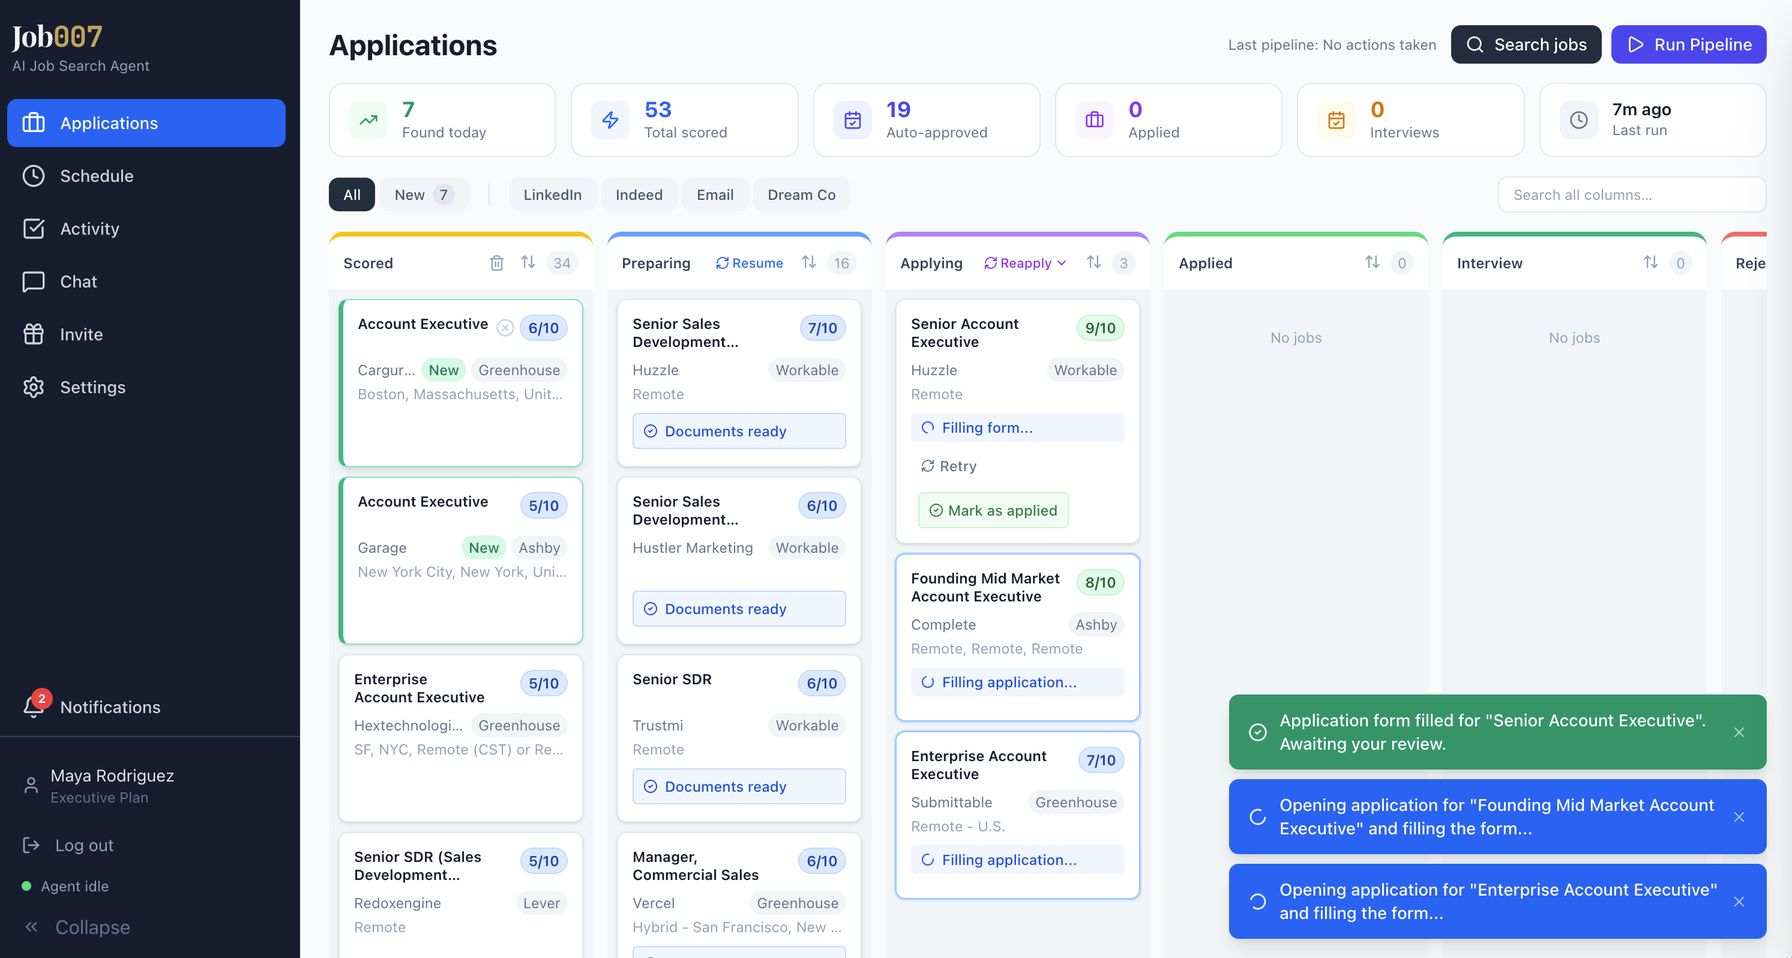
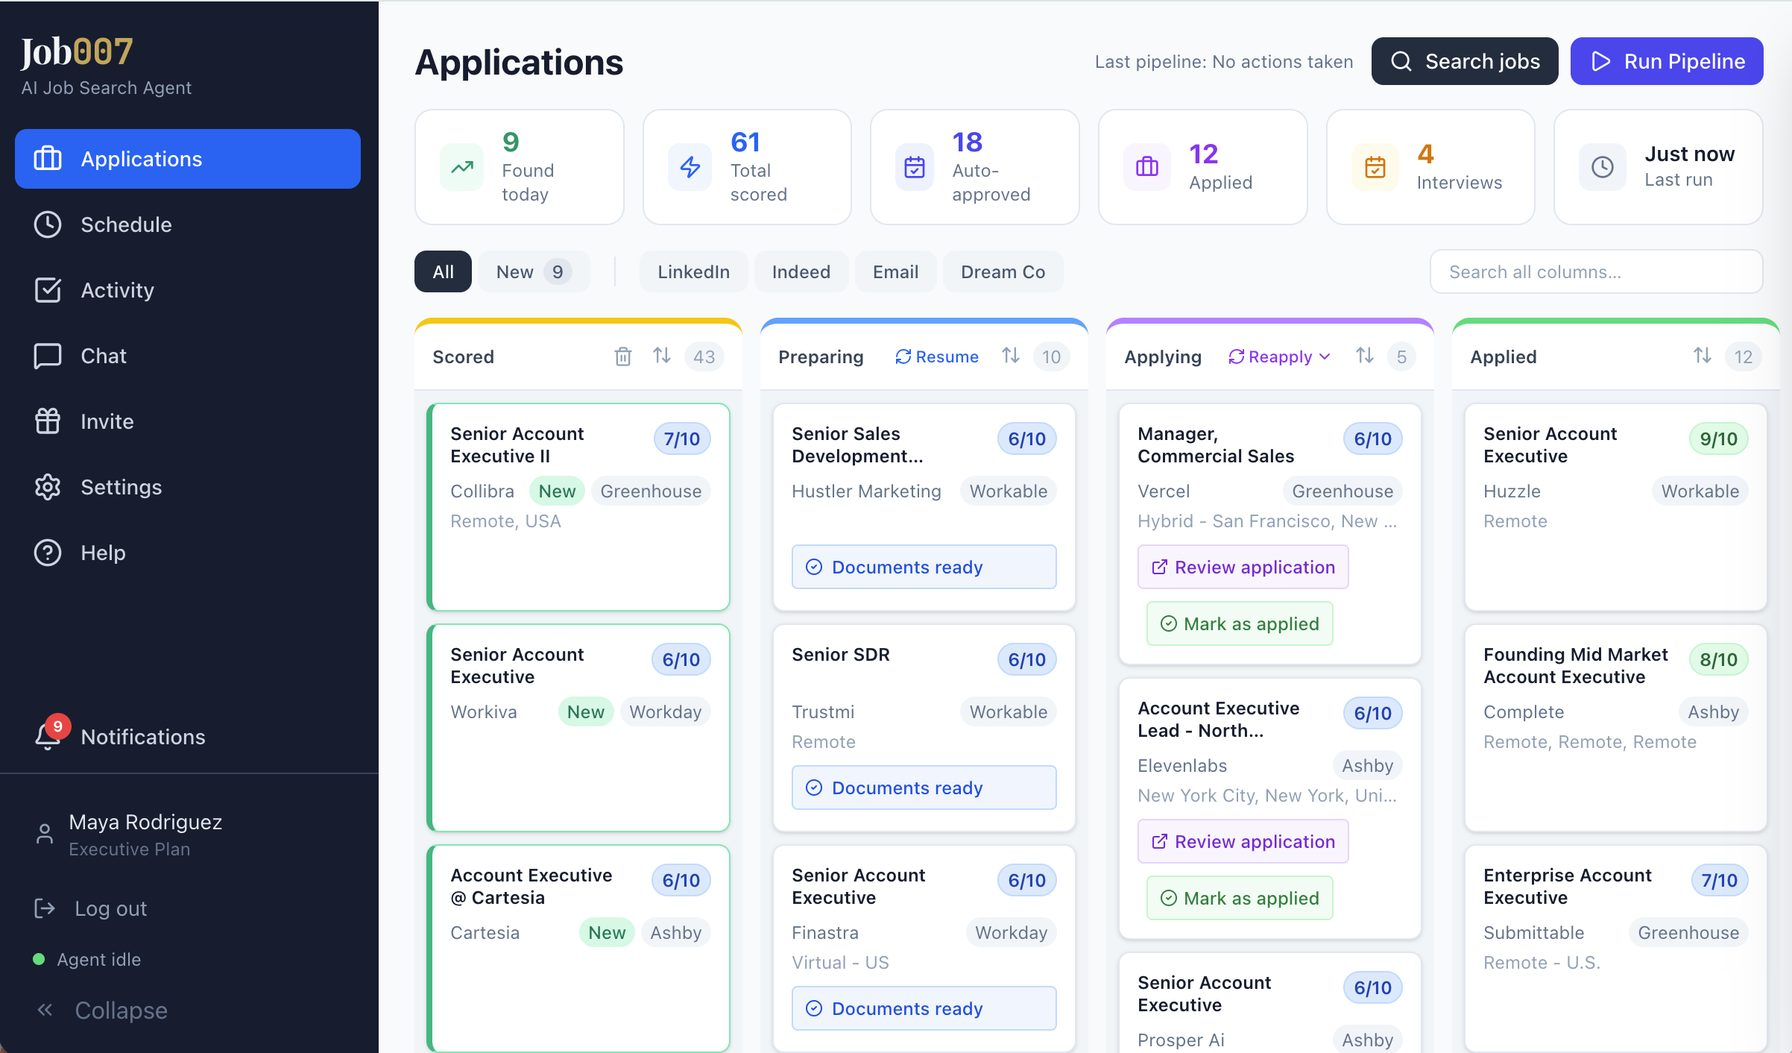
Website: hero shows a complete funnel
Replaces the mid-search capture, whose stat row read 0 Applied and 0
Interviews — the weakest thing on the page, accepted at the time only because
the demo account had nothing further along.

The new one runs 61 scored to 18 auto-approved to 12 applied to 4 interviews,
which is the whole promise in one row. Stat row and column headers agree
(Applied says 12 in both), so the numbers stand up to a close look.

Loses the toasts and 'Filling form...' spinners of the previous shot. Outcomes
beat motion in a hero: the promise is interviews, not activity.

diff --git a/index.html b/index.html
@@ -427,7 +427,7 @@
       <!-- Hero screenshot: the Applications dashboard mid-search -->
 <div class="reveal reveal-delay-4 relative max-w-4xl mx-auto min-w-0">
         <figure class="mockup-glow rounded-2xl overflow-hidden border border-white/10 shadow-2xl shadow-black/50">
-          <img src="/assets/screens/dashboard.jpg" width="1792" height="958" fetchpriority="high" decoding="async" alt="The Job007 dashboard mid-run: 34 jobs scored, 16 having documents written, and 3 applications being filled in, with notifications reporting a form filled and awaiting review" class="w-full block">
+          <img src="/assets/screens/dashboard.jpg" width="1792" height="1053" fetchpriority="high" decoding="async" alt="The Job007 dashboard: 61 jobs scored, 18 auto-approved, 12 applications sent and 4 interviews, with the pipeline board below showing jobs at every stage" class="w-full block">
         </figure>
       </div>
     </div>
